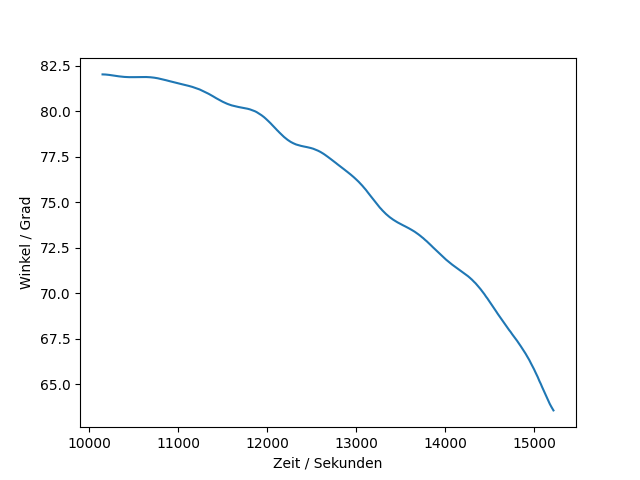
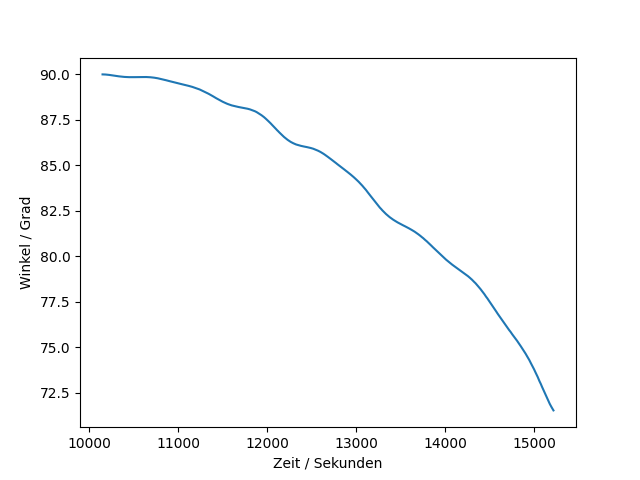
Werte auf 90 setzen, Array umdrehen

diff --git a/main.py b/main.py
@@ -1,4 +1,3 @@
-import Lab3Functions as l3f
 import pandas as pd
 import matplotlib.pyplot as plt
 import numpy as np
@@ -17,6 +16,7 @@ def plot_steps_emg(time, emg, label):
     plt.xlabel("Zeit / Sekunden")
     plt.ylabel("EMG / mV")
     plt.savefig(path)
+    plt.close()
 
 # Funktionen zum Plotten der Arbeitsschritte (Winkel)
 def plot_steps_angle(time, angle, line, index_max, label):
@@ -33,6 +33,7 @@ def plot_steps_angle(time, angle, line, index_max, label):
     plt.xlabel("Zeit / Sekunden")
     plt.ylabel("Winkel / Grad")
     plt.savefig(path)
+    plt.close()
 
 # Funktion zum Verarbeiten der EMG-Daten
 def process_emg(data, fs, label):
@@ -119,6 +120,10 @@ def process_angle(data, fs, label):
     data = data.drop(to_drop)
     data.reset_index(drop=True, inplace=True) # Indize auf Null zurücksetzen
 
+    # Maximalen Winkel auf 90 Grad setzen, damit alle gleichen Startpunkt haben
+    max_value = data["angle"][0]
+    data["angle"] = data["angle"] + (90 - max_value)
+
     plot_steps_angle(data["time"], data["angle"], False, 0, "angle_end_cut_" + label)
 
     return data
@@ -126,14 +131,12 @@ def process_angle(data, fs, label):
 # ---------------------------------------------------
 # ---------------------------------------------------
 
-data_hamstring, emg_processed, emg_processed_avg = [], [], []
-
+data_hamstring = []
 column_names = ["angle", "a_x", "a_y", "a_z", "emg", "time"]
+dataset_path, dataset_name = 0, 0
 
 directory_img = os.path.join(os.getcwd(), "images")
 directory_data = os.path.join(os.getcwd(), "data")
-directory = os.path.join(directory_img, "angle")
-dataset_path, dataset_name = 0, 0
 
 for person in range(3):
     for dataset in range(3):
@@ -159,7 +162,8 @@ for person in range(3):
         path = os.path.join(directory, "result_angle_emg_" + str(person + 1) + "_" + str(dataset + 1) + ".png")
 
         plt.figure()
-        plt.plot(data_hamstring[person][dataset]["angle"], data_hamstring[person][dataset]["emg"])
+        plt.plot(np.flip(data_hamstring[person][dataset]["angle"]), data_hamstring[person][dataset]["emg"])
         plt.xlabel("Winkel / Grad")
         plt.ylabel("EMG / mV")
         plt.savefig(path)
+        plt.close()
